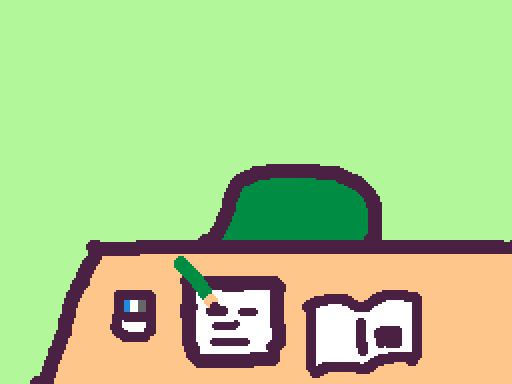
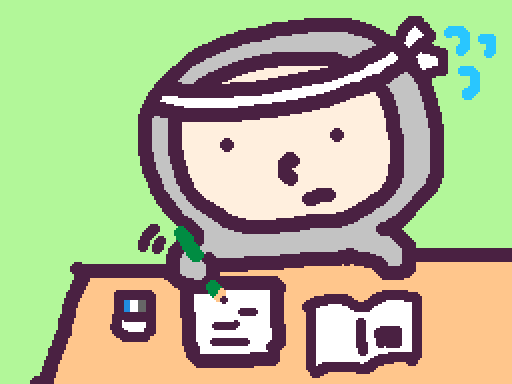
feat: ホーム画面アイコン・PWA設定追加

diff --git a/index.html b/index.html
@@ -3,6 +3,12 @@
 <head>
   <meta charset="UTF-8">
   <meta name="viewport" content="width=device-width, initial-scale=1.0">
+  <meta name="apple-mobile-web-app-capable" content="yes">
+  <meta name="apple-mobile-web-app-status-bar-style" content="default">
+  <meta name="theme-color" content="#e8833a">
+  <link rel="apple-touch-icon" href="icon.png">
+  <link rel="manifest" href="manifest.json">
+  <link rel="icon" href="icon.png">
   <title>ぽてぽてポモドーロ</title>
   <style>
     * { margin: 0; padding: 0; box-sizing: border-box; }
